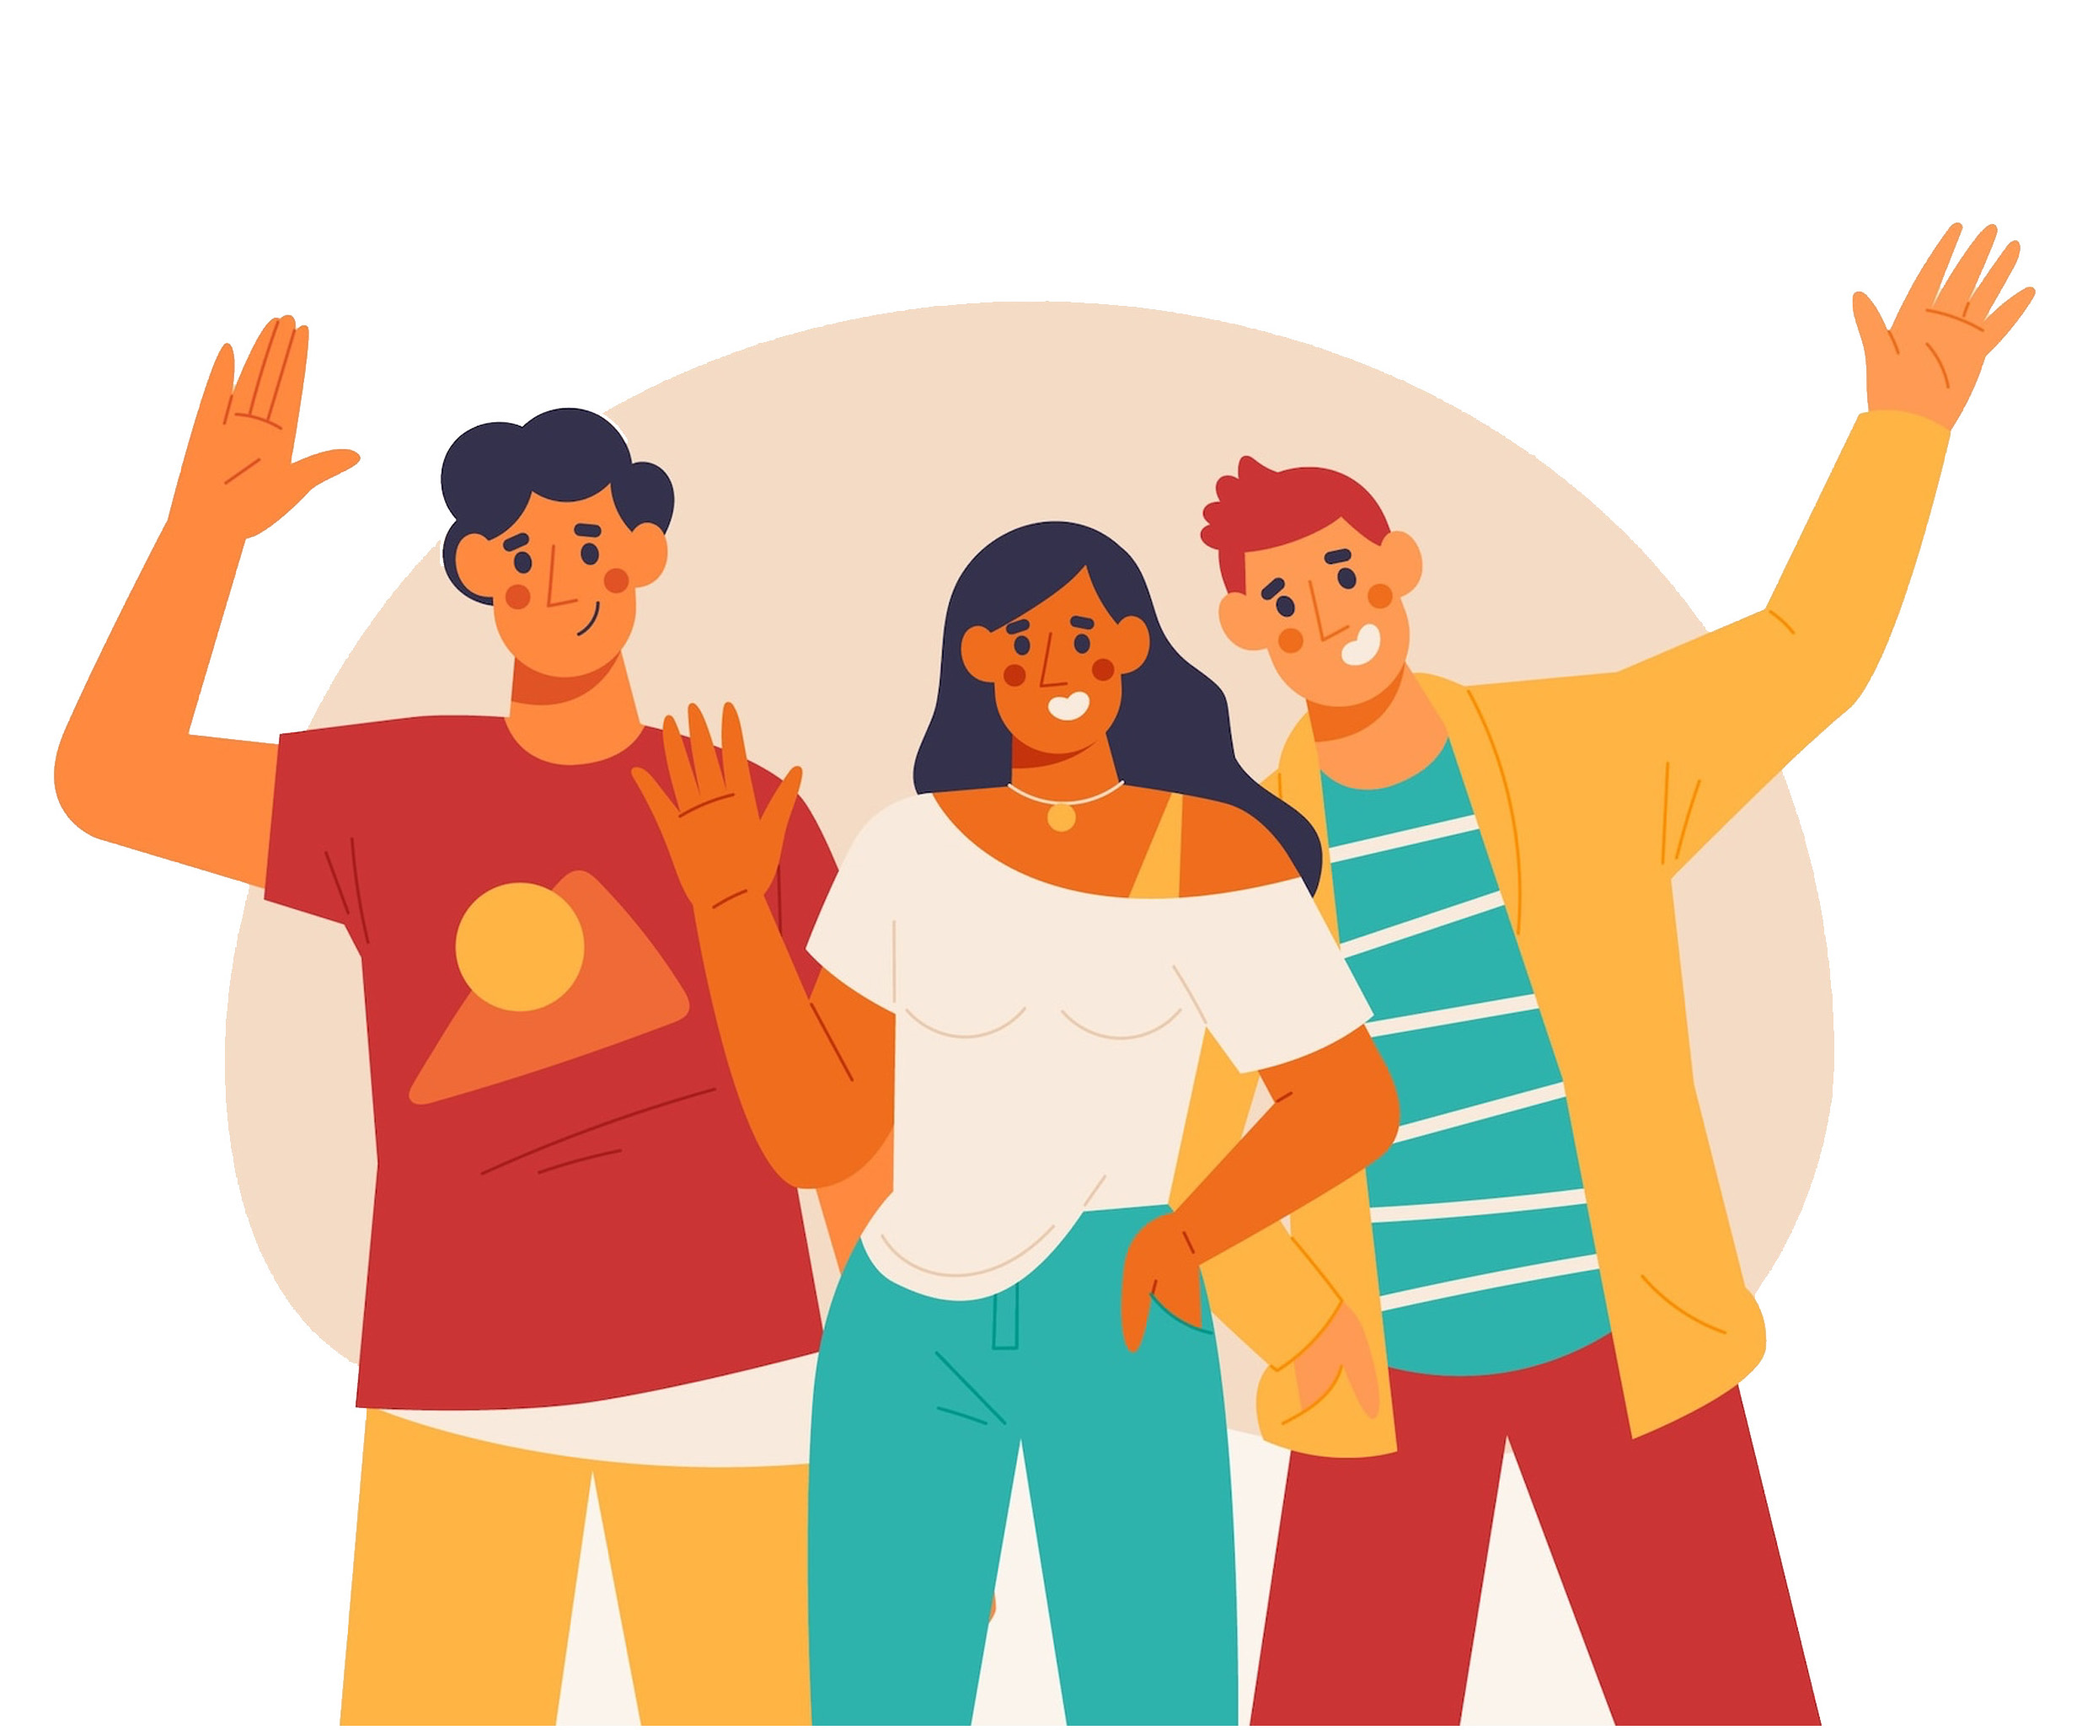
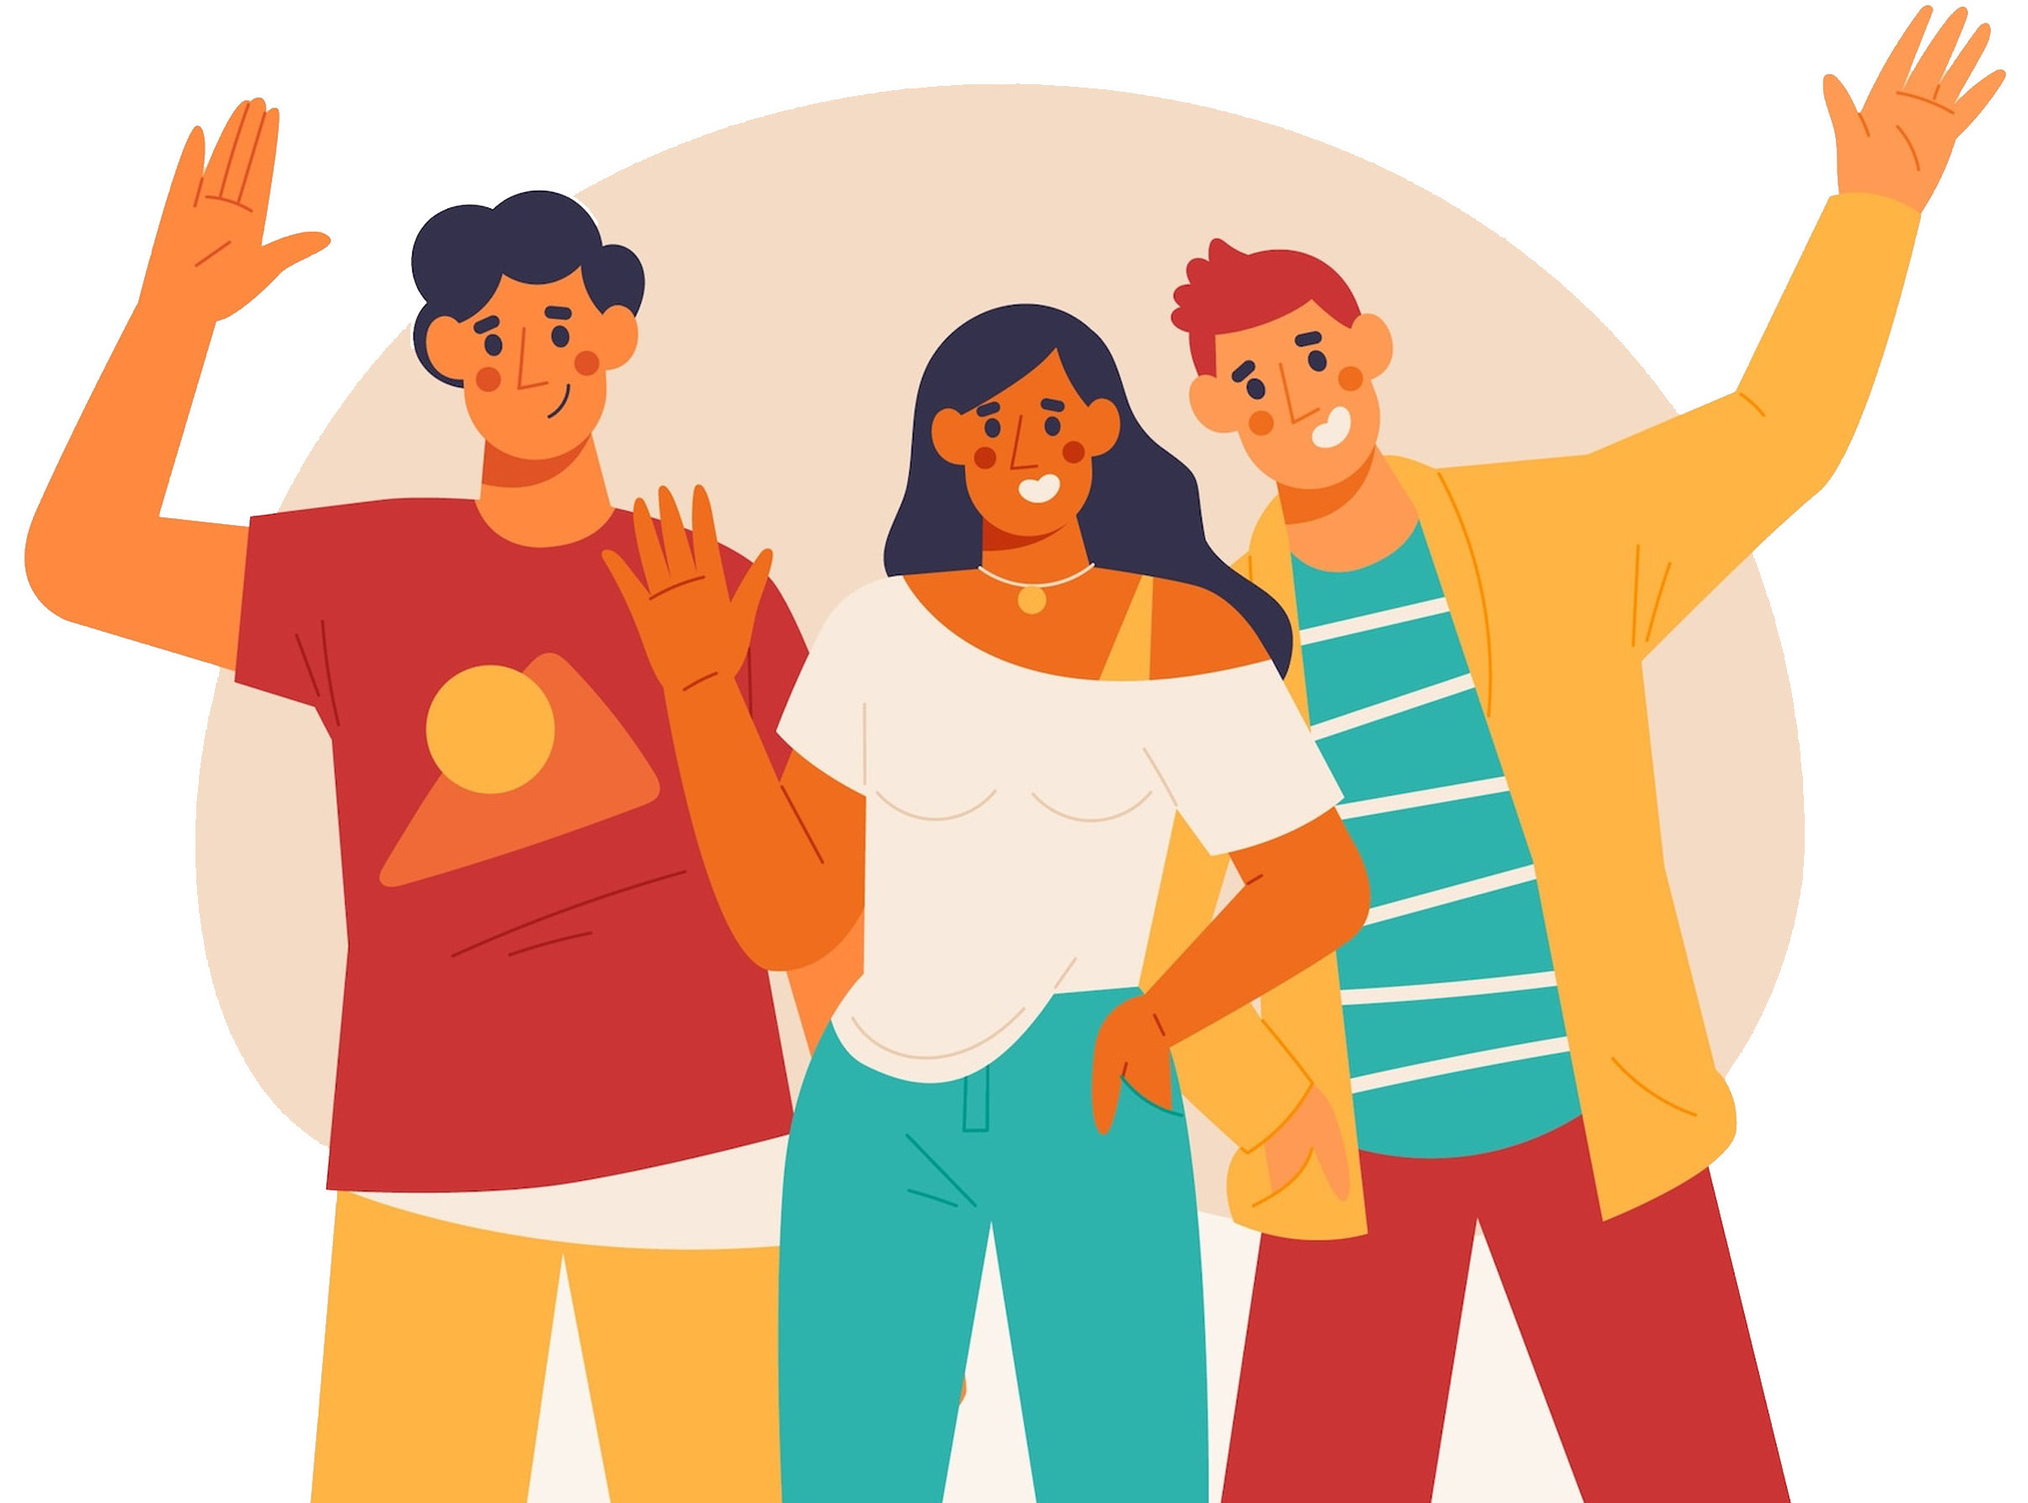
Layout, need to add img's fonts, and colour

diff --git a/index.html b/index.html
@@ -10,7 +10,7 @@
 <body>
     
     <header class="header">
-        <h1>LOGO</h1>
+        <h1>SCOOT</h1>
             <ul class="menu">
                 <li>Home</li>
                 <li>Catagories</li>
@@ -31,43 +31,52 @@
     
 <div class="top-section">
     <div class="left">
-        <img src="..." alt="...">
+        <img src="dinner.jpg" alt="Waving-friends">
     </div>
     <div class="right">
-        <h1>...</h1>
-        <p>...</p>
+        <h1>Welcome to SCOOT</h1>
+        <p>We are a medium commited to bringing you the latest news, around emerging technologies and how they affect culture, the economy, and politics.</p>
         <a href="...">Read more</a>
         <!--Change to a button element if i need to!-->
     </div>
 </div>
 
 <div class="h2">
-     <p class="text-above"><i><strong>...</strong></i> </p>
-     <p class="text-below">...</p>
+     <p class="text-above"><strong>Keep up to date with the news in your city</strong> </p>
+     <p class="text-below">Lorem ipsum dolor sit amet consectetur adipisicing elit. Illo facilis ipsum quis omnis ipsa aliquam earum voluptatibus ab aperiam quasi neque accusamus beatae assumenda molestiae error culpa minima, nulla molestias.</p>
 </div>
 
 
  <div class="three-news-stories">
 
     <div class="one">
-        <img src=... alt=...>
-        <div>Description</div>
+        <im src=... alt=...>
+            <div class="t1">
+                <p><strong>The best deals on true wireless earbuds right now</strong></p>
+                <p>Lorem ipsum, dolor sit amet consectetur adipisicing elit. Non officiis exercitationem optio earum odio neque.</p>
+             </div>
         <div class="mid-btns">
             <button type="button">Read more</button>
         </div>
     </div>
 
     <div class="two">
-        <img src=... alt=...>
-        <div>Description</div>
+        <im src=... alt=...>
+        <div class="t1">
+           <p><strong>More US internet backbone providers shutting down in Russia</strong></p>
+           <p>Lorem ipsum, dolor sit amet consectetur adipisicing elit. Non officiis exercitationem optio earum odio neque.</p>
+        </div>
         <div class="mid-btns">
             <button type="button">Read more</button>
         </div>
     </div>
 
     <div class="three">
-        <img src=... alt=...>
-        <div>Description</div>
+        <im src=... alt=...>
+            <div class="t1">
+                <p><strong>The best deals on true wireless earbuds right now</strong></p>
+                <p>Lorem ipsum, dolor sit amet consectetur adipisicing elit. Non officiis exercitationem optio earum odio neque.</p>
+             </div>
         <div class="mid-btns">
             <button type="button">Read more</button>
         </div>
@@ -76,42 +85,60 @@
 
 <div class="quote-box">
    <div class="text">
-    <p><i>...</i> </p>
-    <p><strong>...</strong></p>
+    <p><strong>'Computers are useless. They can only give you answers'</strong> </p>
+    <p>-Pablo Picasso</p>
     </div>
 </div>
 
 <div class="mid-news">
     
     <div class="left-2">
-        <h1>...</h1>
-        <p>...</p>
+        <h1><strong>WhatsApp’s new browser extension is aimed at making web chats more secure</strong></h1>
+        <p>Code Verify is a new browser extension from WhatsApp parent company Meta that aims to improve the security of WhatsApp’s web version, the company has announced. The extension works by verifying that the contents of WhatsApp’s web version haven’t been tampered with.</p>
         <a href="...">Read more</a>
         <!--Change to a button element if i need to!-->
     </div>
     <div class="right-2">
-        <img src="..." alt="...">
+        <im src="..." alt="...">
     </div>
 </div>
 
 <div class="subscriptions">
 
     <div class="one">
-        <p>.......</p>
+        <p><strong>Free package</strong></p>
+        <ul>
+            <li>This perk</li>
+            <li>This perk</li>
+            <li>This perk</li>
+            <li>This perk</li>
+        </ul>
         <div class="sub-btns">
             <button type="button">Subscribe</button>
         </div>
     </div>
 
     <div class="two">
-        <p>.......</p>
+        <p><strong>£5 per month</strong></p>
+        <ul>
+            <li>This perk</li>
+            <li>This perk</li>
+            <li>This perk</li>
+            <li>This perk</li>
+        </ul>
         <div class="sub-btns">
             <button type="button">Subscribe</button>
         </div>
     </div>
 
     <div class="three">
-        <p>.......</p>
+        <p><strong>£15 per month</strong></p>
+       <ul>
+        <li>This perk</li>
+        <li>This perk</li>
+        <li>This perk</li>
+        <li>This perk</li>
+        </ul>
         <div class="sub-btns">
             <button type="button">Subscribe</button>
         </div>

diff --git a/style.css b/style.css
@@ -4,6 +4,7 @@
     font-family: Helvetica, Arial, sans-serif;
     margin-left: 50px;
     margin-right: 50px;
+    margin-bottom: 50px;
 }
 
 .menu {
@@ -32,7 +33,7 @@
     margin-left: 50px;
     margin-right: 50px;
     justify-content:space-between;
-    
+    margin-bottom: 100px;
 }
 
 .left {
@@ -42,8 +43,11 @@
     align-self: center;
     margin-right: 50px;
     width: max-content;
-    flex-grow: 1;
-    
+}
+
+img {
+    width: 600px;
+    height: auto;
 }
 
 .right {
@@ -56,21 +60,29 @@
     flex-grow: 1;
 }
 
+a {
+    text-decoration: none;
+}
+
 .h2 {
     display:flex;
     flex-direction: column;
+    margin-left: 100px;
+    margin-right: 100px;
 }
 
 .text-above {
     text-align: center;
     margin-left: 50px;
     margin-right: 50px;
+    font-family: Helvetica, Arial, sans-serif;
 }
 
 .text-below {
     text-align: center;
     margin-left: 50px;
     margin-right: 50px;
+    font-family: Helvetica, Arial, sans-serif;
 }
 
 .three-news-stories {
@@ -79,6 +91,14 @@
     gap: 50px;
     font-family: Helvetica, Arial, sans-serif;
     margin-top: 50px;
+    margin-left: 100px;
+    margin-right: 100px;
+    gap: 100px;
+}
+
+.t1 {
+    width: 200px;
+    max-height: 150px;
 }
 
 .quote-box{
@@ -109,7 +129,6 @@
     align-self: center;
     margin-left: 50px;
     width: max-content;
-    flex-grow: 1;
     
 }
 
@@ -120,7 +139,6 @@
     align-items: flex-start;
     font-family: Helvetica, Arial, sans-serif;
     margin-right: 50px;
-    flex-grow: 1;
 }
 
 .subscriptions {
